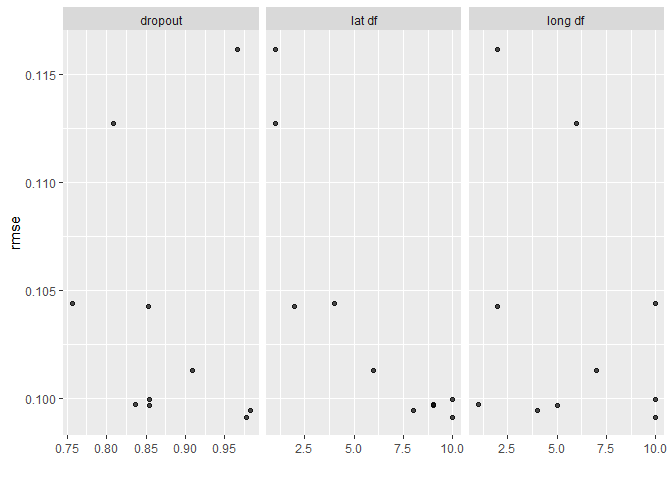
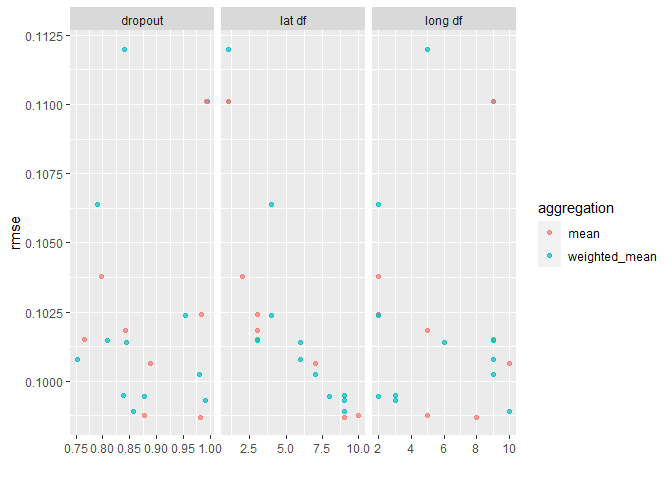
add new dial

diff --git a/README.md b/README.md
@@ -89,16 +89,16 @@ tidy(rec_obj,number = 1)
 #> # A tibble: 32 x 3
 #>    index outlier_probability id                 
 #>    <int>               <dbl> <chr>              
-#>  1     1               0.411 outliers_maha_UScb9
-#>  2     2               0.374 outliers_maha_UScb9
-#>  3     3               0.222 outliers_maha_UScb9
-#>  4     4               0.192 outliers_maha_UScb9
-#>  5     5               0.124 outliers_maha_UScb9
-#>  6     6               0.350 outliers_maha_UScb9
-#>  7     7               0.481 outliers_maha_UScb9
-#>  8     8               0.493 outliers_maha_UScb9
-#>  9     9               0.985 outliers_maha_UScb9
-#> 10    10               0.737 outliers_maha_UScb9
+#>  1     1               0.411 outliers_maha_gjygR
+#>  2     2               0.374 outliers_maha_gjygR
+#>  3     3               0.222 outliers_maha_gjygR
+#>  4     4               0.192 outliers_maha_gjygR
+#>  5     5               0.124 outliers_maha_gjygR
+#>  6     6               0.350 outliers_maha_gjygR
+#>  7     7               0.481 outliers_maha_gjygR
+#>  8     8               0.493 outliers_maha_gjygR
+#>  9     9               0.985 outliers_maha_gjygR
+#> 10    10               0.737 outliers_maha_gjygR
 #> # ... with 22 more rows
 ```
 
@@ -107,16 +107,16 @@ tidy(rec_obj,number = 2)
 #> # A tibble: 32 x 3
 #>    index outlier_probability id                    
 #>    <int>               <dbl> <chr>                 
-#>  1     1                   0 outliers_lookout_jpLf8
-#>  2     2                   0 outliers_lookout_jpLf8
-#>  3     3                   0 outliers_lookout_jpLf8
-#>  4     4                   0 outliers_lookout_jpLf8
-#>  5     5                   0 outliers_lookout_jpLf8
-#>  6     6                   0 outliers_lookout_jpLf8
-#>  7     7                   0 outliers_lookout_jpLf8
-#>  8     8                   0 outliers_lookout_jpLf8
-#>  9     9                   0 outliers_lookout_jpLf8
-#> 10    10                   0 outliers_lookout_jpLf8
+#>  1     1                   0 outliers_lookout_rwNzw
+#>  2     2                   0 outliers_lookout_rwNzw
+#>  3     3                   0 outliers_lookout_rwNzw
+#>  4     4                   0 outliers_lookout_rwNzw
+#>  5     5                   0 outliers_lookout_rwNzw
+#>  6     6                   0 outliers_lookout_rwNzw
+#>  7     7                   0 outliers_lookout_rwNzw
+#>  8     8                   0 outliers_lookout_rwNzw
+#>  9     9                   0 outliers_lookout_rwNzw
+#> 10    10                   0 outliers_lookout_rwNzw
 #> # ... with 22 more rows
 ```
 
@@ -224,19 +224,20 @@ ames_rec <-
   step_ns(Latitude,  deg_free = tune("lat df")) %>% 
   step_outliers_maha(all_numeric(), -all_outcomes()) %>%
   step_outliers_lookout(all_numeric(),-contains(r"(.outliers)"),-all_outcomes()) %>% 
-  step_outliers_remove(contains(r"(.outliers)"),probability_dropout = tune("dropout"))
+  step_outliers_remove(contains(r"(.outliers)"),probability_dropout = tune("dropout"),aggregation_function = tune("aggregation"))
 ```
 
 ### See the parameters
 
 ``` r
 parameters(ames_rec)
-#> Collection of 3 parameters for tuning
+#> Collection of 4 parameters for tuning
 #> 
-#>  identifier                type    object
-#>     long df            deg_free nparam[+]
-#>      lat df            deg_free nparam[+]
-#>     dropout probability_dropout nparam[+]
+#>   identifier                 type    object
+#>      long df             deg_free nparam[+]
+#>       lat df             deg_free nparam[+]
+#>      dropout  probability_dropout nparam[+]
+#>  aggregation aggregation_function dparam[+]
 ```
 
 ### There is already a function for dropouts implemented by dials
@@ -248,28 +249,47 @@ ames_param <-
   update(
     `long df` = spline_degree(), 
     `lat df` = spline_degree(),
-    dropout = dropout(range = c(0.75, 1))
+    dropout = dropout(range = c(0.75, 1)),
+    aggregation = aggregation() %>% value_set(c("mean","weighted_mean"))
   )
+```
+
+## Create weighted\_mean func
+
+``` r
+weighted_mean <- function(x) {
+  x[[1]] * .75 + x[[2]] * .25
+}
 ```
 
 ### Grid Search picks random points
 
 ``` r
-spline_grid <- grid_max_entropy(ames_param, size = 10)
+spline_grid <- grid_max_entropy(ames_param, size = 20)
 spline_grid
-#> # A tibble: 10 x 3
-#>    `long df` `lat df` dropout
-#>        <int>    <int>   <dbl>
-#>  1         9        3   0.752
-#>  2         4        5   0.958
-#>  3         2        7   0.769
-#>  4        10        1   0.882
-#>  5         7        3   0.996
-#>  6         6        8   0.786
-#>  7         2        1   0.817
-#>  8         5        4   0.840
-#>  9         5        8   0.898
-#> 10         9        6   0.947
+#> # A tibble: 20 x 4
+#>    `long df` `lat df` dropout aggregation  
+#>        <int>    <int>   <dbl> <chr>        
+#>  1         2        3   0.983 mean         
+#>  2         3        9   0.992 weighted_mean
+#>  3         9        3   0.766 mean         
+#>  4         9        1   0.995 weighted_mean
+#>  5        10        9   0.857 weighted_mean
+#>  6         5       10   0.878 mean         
+#>  7         5        1   0.839 weighted_mean
+#>  8         9        3   0.808 weighted_mean
+#>  9         6        6   0.843 weighted_mean
+#> 10         2        4   0.954 weighted_mean
+#> 11         9        1   0.992 mean         
+#> 12         5        3   0.841 mean         
+#> 13         9        7   0.980 weighted_mean
+#> 14         3        9   0.838 weighted_mean
+#> 15         2        2   0.797 mean         
+#> 16         2        4   0.790 weighted_mean
+#> 17         8        9   0.982 mean         
+#> 18        10        7   0.888 mean         
+#> 19         2        8   0.877 weighted_mean
+#> 20         9        6   0.752 weighted_mean
 ```
 
 ### create a simple model
@@ -309,19 +329,30 @@ rmse_vals <-
   dplyr::filter(.metric == "rmse") %>% 
   arrange(mean)
 rmse_vals
-#> # A tibble: 10 x 9
-#>    `long df` `lat df` dropout .metric .estimator   mean     n std_err .config   
-#>        <int>    <int>   <dbl> <chr>   <chr>       <dbl> <int>   <dbl> <chr>     
-#>  1         6        8   0.786 rmse    standard   0.0992    10 0.00229 Preproces~
-#>  2         5        8   0.898 rmse    standard   0.0993    10 0.00224 Preproces~
-#>  3         9        6   0.947 rmse    standard   0.100     10 0.00248 Preproces~
-#>  4         9        3   0.752 rmse    standard   0.101     10 0.00240 Preproces~
-#>  5         2        7   0.769 rmse    standard   0.102     10 0.00239 Preproces~
-#>  6         7        3   0.996 rmse    standard   0.102     10 0.00219 Preproces~
-#>  7         5        4   0.840 rmse    standard   0.102     10 0.00228 Preproces~
-#>  8         4        5   0.958 rmse    standard   0.102     10 0.00230 Preproces~
-#>  9        10        1   0.882 rmse    standard   0.109     10 0.00287 Preproces~
-#> 10         2        1   0.817 rmse    standard   0.117     10 0.00288 Preproces~
+#> # A tibble: 20 x 10
+#>    `long df` `lat df` dropout aggregation .metric .estimator   mean     n
+#>        <int>    <int>   <dbl> <chr>       <chr>   <chr>       <dbl> <int>
+#>  1         8        9   0.982 mean        rmse    standard   0.0987    10
+#>  2         5       10   0.878 mean        rmse    standard   0.0988    10
+#>  3        10        9   0.857 weighted_m~ rmse    standard   0.0989    10
+#>  4         3        9   0.992 weighted_m~ rmse    standard   0.0993    10
+#>  5         2        8   0.877 weighted_m~ rmse    standard   0.0994    10
+#>  6         3        9   0.838 weighted_m~ rmse    standard   0.0995    10
+#>  7         9        7   0.980 weighted_m~ rmse    standard   0.100     10
+#>  8        10        7   0.888 mean        rmse    standard   0.101     10
+#>  9         9        6   0.752 weighted_m~ rmse    standard   0.101     10
+#> 10         6        6   0.843 weighted_m~ rmse    standard   0.101     10
+#> 11         9        3   0.808 weighted_m~ rmse    standard   0.101     10
+#> 12         9        3   0.766 mean        rmse    standard   0.102     10
+#> 13         5        3   0.841 mean        rmse    standard   0.102     10
+#> 14         2        4   0.954 weighted_m~ rmse    standard   0.102     10
+#> 15         2        3   0.983 mean        rmse    standard   0.102     10
+#> 16         2        2   0.797 mean        rmse    standard   0.104     10
+#> 17         2        4   0.790 weighted_m~ rmse    standard   0.106     10
+#> 18         9        1   0.995 weighted_m~ rmse    standard   0.110     10
+#> 19         9        1   0.992 mean        rmse    standard   0.110     10
+#> 20         5        1   0.839 weighted_m~ rmse    standard   0.112     10
+#> # ... with 2 more variables: std_err <dbl>, .config <chr>
 ```
 
 ## Plot it
@@ -330,4 +361,4 @@ rmse_vals
 autoplot(ames_res,metric = "rmse")
 ```
 
-<img src="man/figures/README-unnamed-chunk-14-1.png" width="100%" />
+<img src="man/figures/README-unnamed-chunk-15-1.png" width="100%" />
